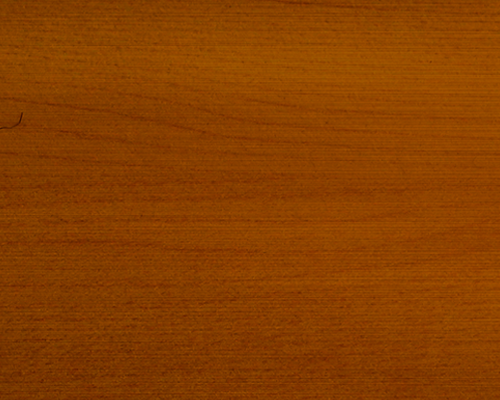
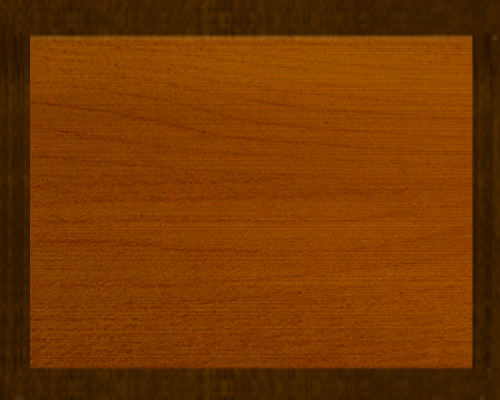
visual changes to box & button

Changed region(s): [[0.0, 0.0, 1.0, 1.0]]

diff --git a/src/Box.cpp b/src/Box.cpp
@@ -11,7 +11,10 @@ Box::Box(const std::string& text)
     load_box_texture();
     load_font();
     set_default_text(text);
+    set_button_text();
     box_sprite.setTexture(box_texture);
+    // box_sprite.setColor(sf::Color(150, 80, 80));
+    // box_sprite.s
     update_button_pos();
     update_text_pos();
 }
@@ -44,7 +47,7 @@ void Box::update_text_pos() {
 
 void Box::update_button_pos() {
     button_x_pos = box_sprite.getPosition().x + (box_sprite.getGlobalBounds().width - button.get_width()) / 2;
-    button_y_pos = box_sprite.getPosition().y + box_sprite.getGlobalBounds().height - box_text.getCharacterSize() - button.get_height();
+    button_y_pos = box_sprite.getPosition().y + box_sprite.getGlobalBounds().height - 2 * box_text.getCharacterSize() - button.get_height();
     button.set_position(button_x_pos, button_y_pos);
 }
 

diff --git a/include/Box.hpp b/include/Box.hpp
@@ -28,7 +28,7 @@ class Box
     void set_position(int x, int y);
     void set_position(const sf::Vector2f& coords);
     void set_text(const std::string& text);
-    void set_button_text(const std::string& text);
+    void set_button_text(const std::string& text = "OK");
     void set_button_highlight_on() { button.highlight_on(); };
     void set_button_highlight_off() { button.highlight_off(); };
     bool button_contains(int x, int y) const { return button.contains(x, y); };

diff --git a/src/ButtonInterface.cpp b/src/ButtonInterface.cpp
@@ -12,7 +12,7 @@ ButtonInterface::ButtonInterface(const std::string& text)
 
 void ButtonInterface::load_font() {
     if (!font.loadFromFile("font/chandas1-2.ttf")) {
-        std::cerr << "font failed loading inside Button class!\n";
+        std::cerr << "font failed loading inside ButtonInterface class!\n";
         abort();
     }
 }

diff --git a/include/Button.hpp b/include/Button.hpp
@@ -13,7 +13,7 @@ protected:
     void load_button_texture();
     void load_highlighted_button_texture();
 public:
-    explicit Button(const std::string& text);
+    explicit Button(const std::string& text = "default");
     void draw(sf::RenderWindow& win);
 };
 
